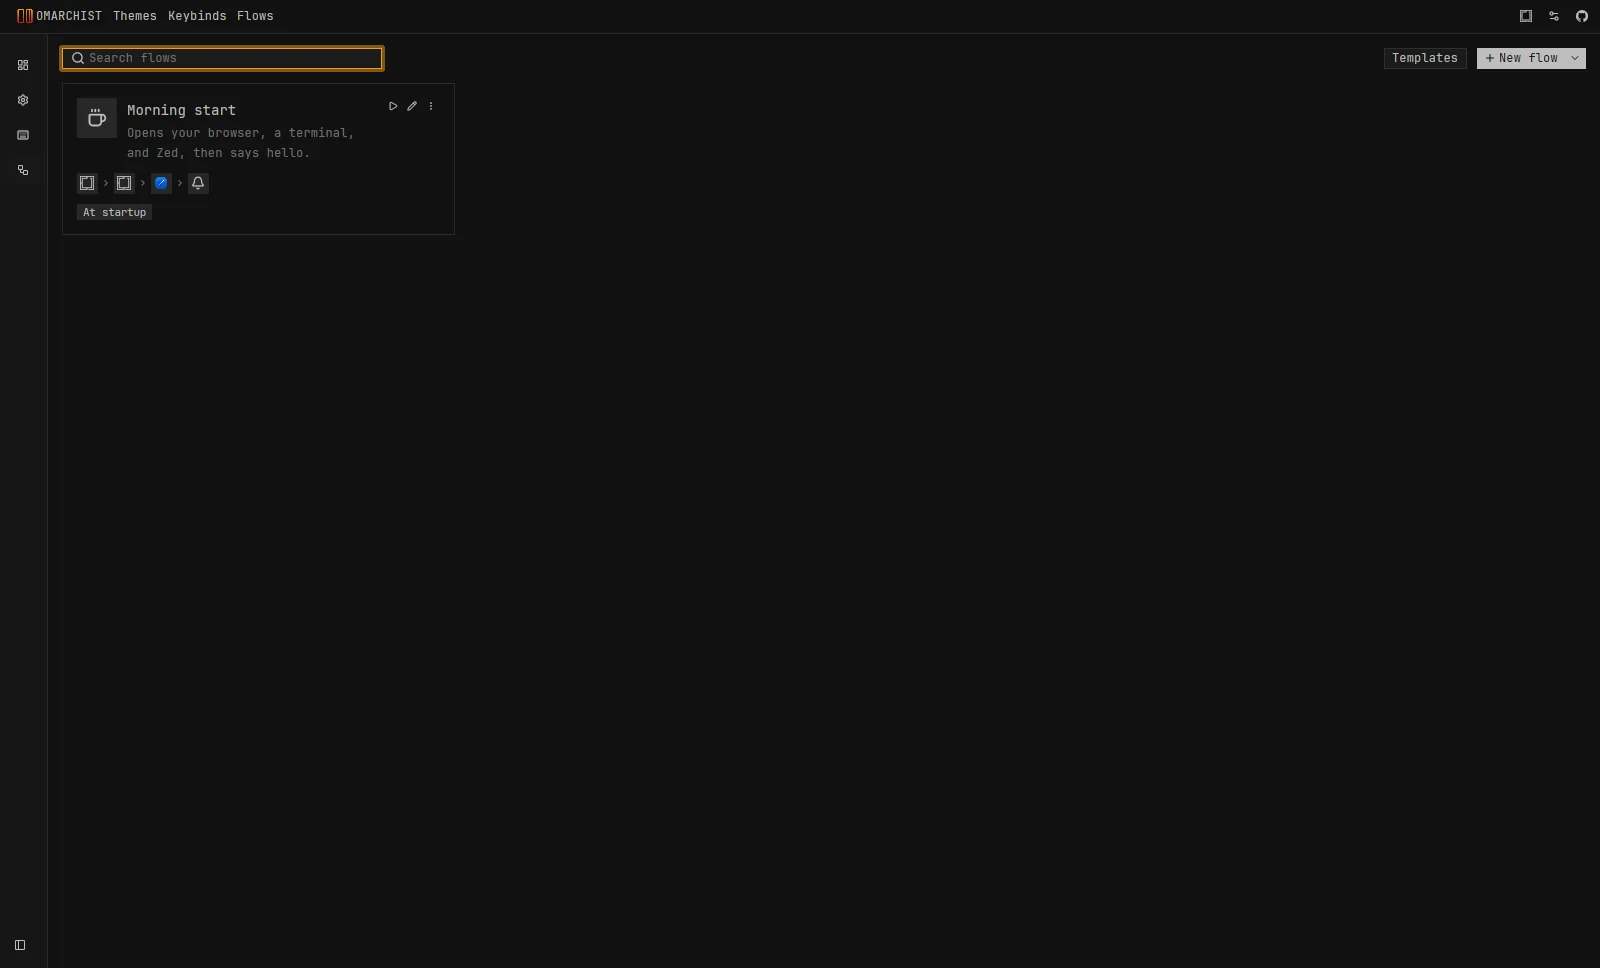
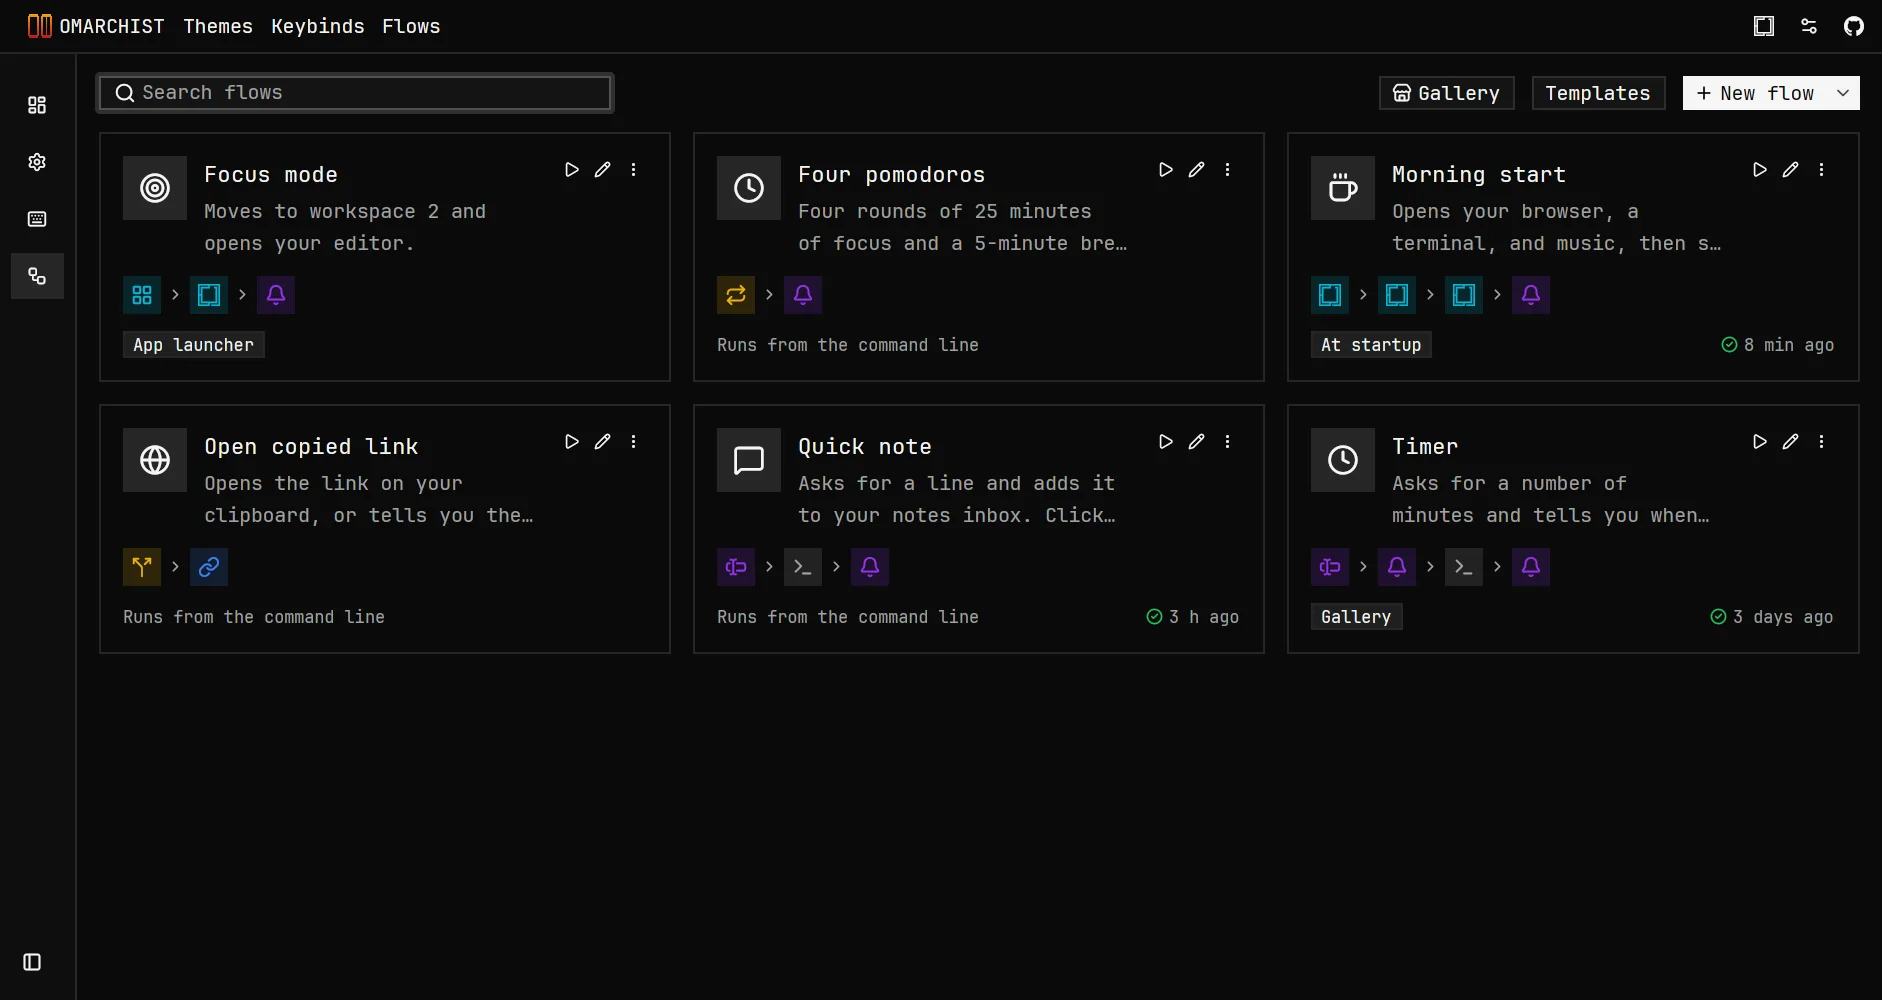
docs(flows): new screenshots, and pictures for the gallery, run history, and the step list

diff --git a/docs/index.md b/docs/index.md
@@ -8,7 +8,7 @@ Omarchist is a desktop app for [Omarchy](https://omarchy.org/) Linux. Design the
 - **[Themes](/theming/)**: design a theme from scratch or from an image. Omarchist writes `colors.toml`; Omarchy generates the rest.
 - **[Configuration](/configuring/)**: gaps, borders, blur, keyboard, mouse, and touchpad, applied as you change them.
 - **[Keybinds](/configuring/keybinds)**: search and change every Hyprland keybind, recording keys the way an editor does.
-- **[Flows](/flows/)**: chain actions like Shortcuts on a Mac and run them from a keybind, the app launcher, at startup, or the command line.
+- **[Flows](/flows/)**: chain actions like Shortcuts on a Mac and run them from a keybind, the app launcher, at startup, or the command line. Let [automations](/flows/automations) start them, and find more in the [Gallery](/flows/gallery).
 - **[Keyboard first](/keyboard)**: every page and dialog works without a mouse.
 
 ## Installation
@@ -23,7 +23,7 @@ Omarchist 2.x requires Omarchy Quattro (v4). Use an Omarchist 1.x release with O
 
 ### Uninstall
 
-Omarchist adds a few things outside its package: a `require("hypr.omarchist")` line in `~/.config/hypr/hyprland.lua`, the `~/.config/hypr/omarchist.lua` it generates, the bar widget plugin, launcher entries and startup hooks for flows, and its own settings under `~/.config/omarchist`. Remove them first, then the package:
+Omarchist adds a few things outside its package: a `require("hypr.omarchist")` line in `~/.config/hypr/hyprland.lua`, the `~/.config/hypr/omarchist.lua` it generates, the bar widget plugin, launcher entries and startup hooks for flows, the service that runs automations, and its own settings under `~/.config/omarchist`. Remove them first, then the package:
 
 ```bash
 omarchist uninstall
@@ -45,5 +45,5 @@ The **Settings** page (<kbd>Ctrl</kbd> + <kbd>,</kbd>) holds the app's own optio
 | **Startup** | The page Omarchist opens on when you start it without `--view`, or the page you used last. |
 | **Omarchy Updates** | Whether the app checks for Omarchy updates in the background, how often, and whether a found update raises a desktop notification. |
 | **Theme Designer** | Auto-apply theme on edit: apply a theme to your desktop as soon as you open it in the Theme Designer. |
-| **Flows** | A desktop notification when a flow run from a keybind or the command line finishes. |
+| **Flows** | A desktop notification when a flow run from a keybind or the command line finishes. Run [automations](/flows/automations) in the background. Count your installs in the [Gallery](/flows/gallery#privacy). |
 | **Bar** | Show Omarchist in Omarchy's bar. See [Bar Widget](/configuring/bar-widget). |

diff --git a/docs/flows/index.md b/docs/flows/index.md
@@ -33,6 +33,9 @@ Give the flow a name, a description, and an icon, then press **Add step** (<kbd>
 | **If**, **Repeat**, **Repeat with each**, **Choose from a menu**, **Stop this flow** | Decides what runs, and how often. See [If, Repeat, and menus](/flows/logic). |
 | **Set the volume**, **Copy to the clipboard**, **Take a screenshot**, and about thirty more | Ready-made actions with a form instead of a command. See [Ready-made actions](/flows/actions). |
 
+<img src="/images/add-step-light.webp" alt="The list of step types" class="screenshot light-only">
+<img src="/images/add-step-dark.webp" alt="The list of step types" class="screenshot dark-only">
+
 **Add step** opens a list of every kind of step, grouped and searchable: type a few letters and press <kbd>Enter</kbd>, or move with the arrow keys. The row under the search narrows the list to one group. **Change** in a step's form goes back to the list.
 
 A command step starts its program and moves on, which is what opening an app needs; a program that cannot start still fails the step. Turn on **Wait until it finishes** when the next step depends on it having completed; the step list marks such steps with *waits*. The switch on a step turns it off without removing it; the arrows move it up and down. **Keep going when a step fails** lets the rest of the flow run after an error.

diff --git a/README.md b/README.md
@@ -54,7 +54,9 @@ Search and change every Hyprland keybind on your system. Record a combination th
 
 ### Flows
 
-String actions together, like Shortcuts on a Mac: open apps, switch workspaces, wait, notify. Run a flow from a keybind, the app launcher, at startup, or anywhere with `omarchist flow run <name>`. Start from a template, and share flows as `.flow.toml` files.
+String actions together, like Shortcuts on a Mac. A flow can open apps, change settings, ask you something, pass what one step produced to the next, decide with If, and repeat. Run it from a keybind, the app launcher, the Files menu, at startup, or anywhere with `omarchist flow run <name>`, or let an automation start it: at a time, when an app opens, when the charger is unplugged.
+
+Start from a template or from the Gallery, where people share flows that reviewers have read. Installing one shows you every step before anything is saved.
 
 <picture>
   <source media="(prefers-color-scheme: dark)" srcset="screenshots/flow-editor-dark.webp">

diff --git a/docs/flows/gallery.md b/docs/flows/gallery.md
@@ -6,6 +6,9 @@ outline: deep
 
 The **Gallery** is where people share flows. Browse it from inside Omarchist, read what a flow does, and install it in two clicks. Every flow in it was read by a reviewer before it was listed.
 
+<img src="/images/gallery-light.webp" alt="The Gallery" class="screenshot light-only">
+<img src="/images/gallery-dark.webp" alt="The Gallery" class="screenshot dark-only">
+
 Open it with **Gallery** on the Flows page, with **Flows → Gallery** in the title bar, or from the command palette. Browsing needs no account.
 
 ## Find a flow
@@ -19,6 +22,9 @@ A card shows the flow's icon and name, who made it, the icons of its steps, and 
 ## Read it first
 
 Click a card to see the flow before you take it:
+
+<img src="/images/gallery-detail-light.webp" alt="A flow in the Gallery" class="screenshot light-only">
+<img src="/images/gallery-detail-dark.webp" alt="A flow in the Gallery" class="screenshot dark-only">
 
 | Part | What it tells you |
 | --- | --- |

diff --git a/docs/flows/history.md b/docs/flows/history.md
@@ -6,6 +6,9 @@ outline: deep
 
 Omarchist keeps the last 50 runs of every flow, whatever started them. When a keybind did nothing or an automation ran while you were away, the history says what happened.
 
+<img src="/images/flow-history-light.webp" alt="A flow's run history" class="screenshot light-only">
+<img src="/images/flow-history-dark.webp" alt="A flow's run history" class="screenshot dark-only">
+
 ## See a flow's runs
 
 - In the editor, press the **Run history** button next to **Run** (<kbd>Ctrl</kbd> + <kbd>Shift</kbd> + <kbd>H</kbd>).
